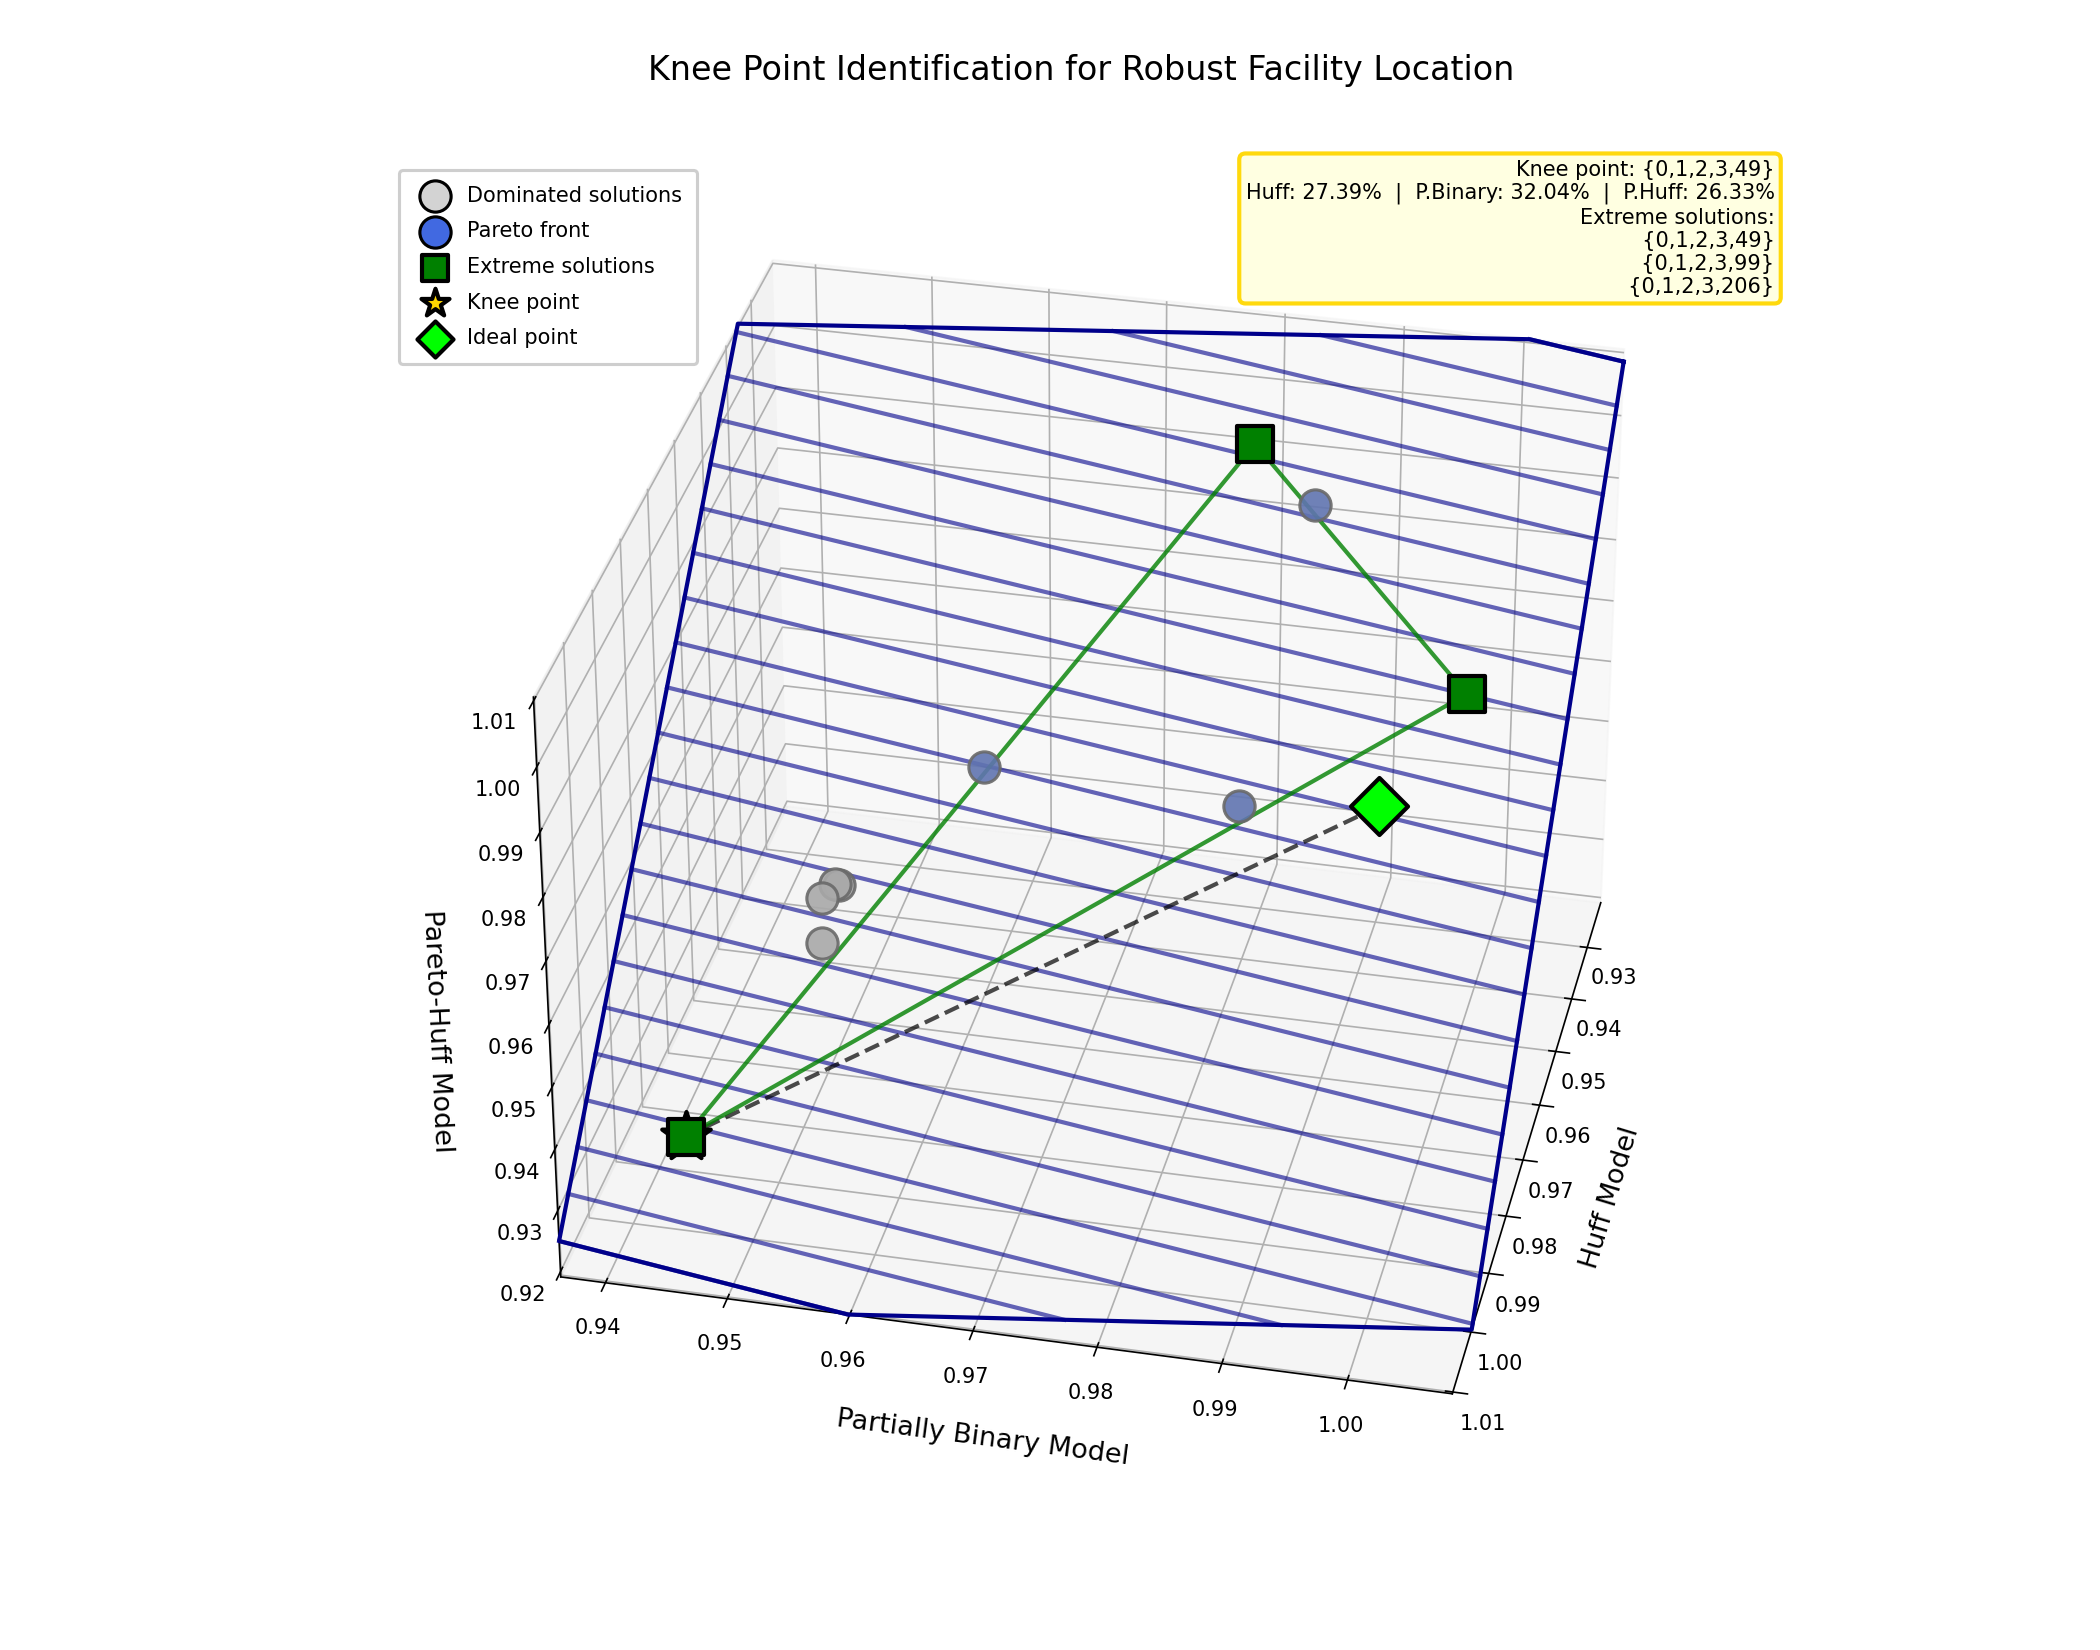
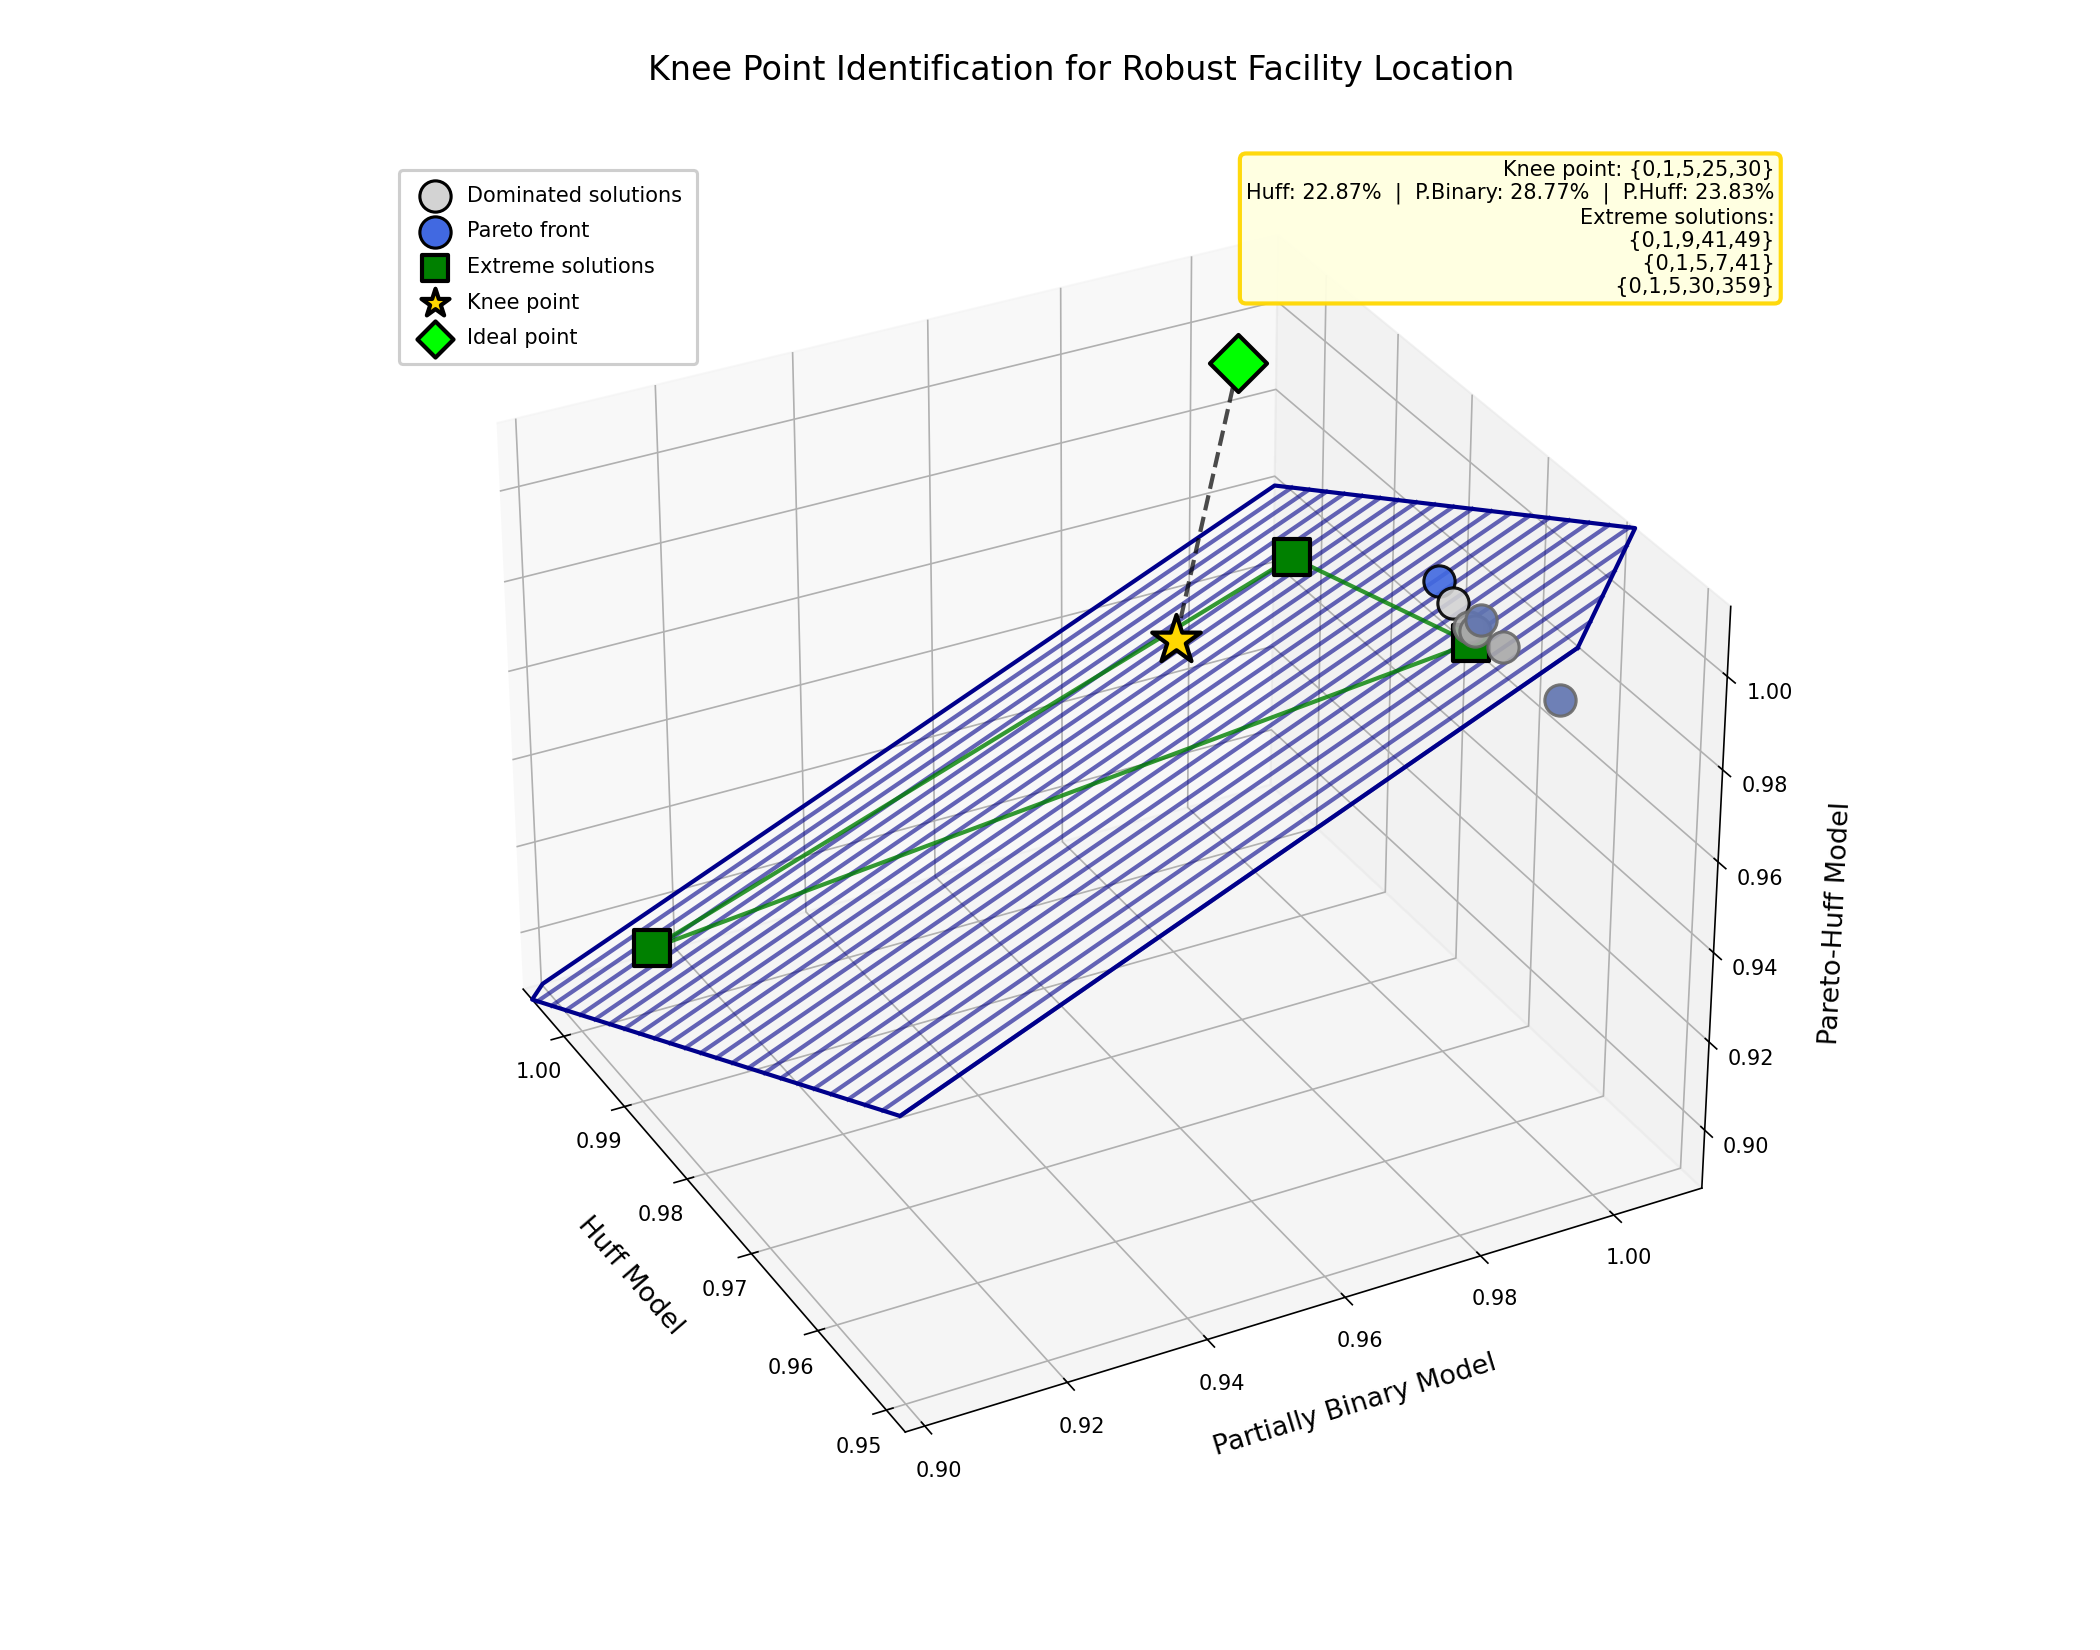
Implemented 2d visualisation.

diff --git a/analysis/visualise_2d.py b/analysis/visualise_2d.py
@@ -1,0 +1,168 @@
+#!/usr/bin/env python3
+"""Visualizer for 2D Pareto front (Huff and PartiallyBinary models)."""
+
+import sys
+import numpy as np
+import matplotlib
+matplotlib.use('Agg', force=True)
+import matplotlib.pyplot as plt
+import csv
+from dataclasses import dataclass
+from typing import List, Tuple, Optional
+
+
+@dataclass
+class Solution:
+    locations: str
+    huff_model: float
+    partially_binary: float
+
+    @property
+    def objectives(self) -> np.ndarray:
+        return np.array([self.huff_model, self.partially_binary])
+
+
+def load_solutions(filepath: str) -> List[Solution]:
+    solutions = []
+    with open(filepath, 'r') as f:
+        reader = csv.DictReader(f, delimiter='\t')
+        for row in reader:
+            solutions.append(Solution(
+                locations=row['locations'],
+                huff_model=float(row['HuffModel']),
+                partially_binary=float(row['PartiallyBinaryModel'])
+            ))
+    return solutions
+
+
+def normalize_objectives(solutions: List[Solution]) -> Tuple[np.ndarray, np.ndarray, np.ndarray]:
+    objectives = np.array([s.objectives for s in solutions])
+    mins = objectives.min(axis=0)
+    maxs = objectives.max(axis=0)
+    ranges = maxs - mins
+    ranges[ranges == 0] = 1
+    return (objectives - mins) / ranges, mins, maxs
+
+
+def find_pareto_front(objectives: np.ndarray) -> np.ndarray:
+    n = len(objectives)
+    is_dominated = np.zeros(n, dtype=bool)
+    for i in range(n):
+        for j in range(n):
+            if i != j and np.all(objectives[j] >= objectives[i]) and np.any(objectives[j] > objectives[i]):
+                is_dominated[i] = True
+                break
+    pareto = np.where(~is_dominated)[0]
+    if len(pareto) < 2:
+        sorted_by_huff = np.argsort(objectives[:, 0])[::-1]
+        pareto = sorted_by_huff[:2]
+    return pareto
+
+
+def find_knee_point(objectives: np.ndarray) -> int:
+    ideal = np.array([1.0, 1.0])
+    return np.argmin(np.linalg.norm(objectives - ideal, axis=1))
+
+
+def visualize(filepath: str, output_path: Optional[str] = None):
+    solutions = load_solutions(filepath)
+    if len(solutions) == 0:
+        print("No solutions found.")
+        return
+
+    normalized, _, _ = normalize_objectives(solutions)
+
+    pareto_indices = find_pareto_front(normalized)
+    pareto_objectives = normalized[pareto_indices]
+    dominated_indices = list(set(range(len(normalized))) - set(pareto_indices))
+
+    knee_idx = find_knee_point(pareto_objectives)
+    knee_global_idx = pareto_indices[knee_idx]
+    knee_coords = normalized[knee_global_idx]
+
+    if len(dominated_indices) > 4:
+        distances = [(idx, np.min(np.linalg.norm(pareto_objectives - normalized[idx], axis=1))) for idx in dominated_indices]
+        distances.sort(key=lambda x: x[1])
+        selected_dominated = [idx for idx, _ in distances[:4]]
+    else:
+        selected_dominated = dominated_indices[:4]
+
+    other_mask = np.ones(len(pareto_indices), dtype=bool)
+    other_mask[knee_idx] = False
+    other_pareto_indices = np.where(other_mask)[0]
+    if len(other_pareto_indices) > 4:
+        other_pareto_indices = other_pareto_indices[::2]
+
+    fig, ax = plt.subplots(figsize=(12, 10))
+    plt.subplots_adjust(top=0.92, bottom=0.08, left=0.08, right=0.98)
+
+    all_points = np.array(list(pareto_objectives) + [normalized[idx] for idx in selected_dominated] + [np.array([1.0, 1.0])])
+    data_min, data_max = all_points.min(axis=0), all_points.max(axis=0)
+
+    ax.set_xlim(data_min[0] - 0.01, data_max[0] + 0.01)
+    ax.set_ylim(data_min[1] - 0.01, data_max[1] + 0.01)
+
+    if selected_dominated:
+        for idx in selected_dominated:
+            coord = normalized[idx]
+            ax.scatter(coord[0], coord[1], c='lightgray', s=225,
+                       alpha=0.9, edgecolors='black', linewidth=1.5)
+        ax.scatter([], [], c='lightgray', s=225, edgecolors='black',
+                  linewidth=1.5, label='Dominated solutions')
+
+    if len(other_pareto_indices) > 0:
+        for idx in other_pareto_indices:
+            coord = pareto_objectives[idx]
+            ax.scatter(coord[0], coord[1], c='royalblue', s=225,
+                       alpha=0.9, edgecolors='black', linewidth=1.5)
+        ax.scatter([], [], c='royalblue', s=225, edgecolors='black',
+                  linewidth=1.5, label='Pareto front')
+
+    if len(pareto_objectives) > 0:
+        sorted_pareto = pareto_objectives[np.argsort(pareto_objectives[:, 0])]
+        ax.plot(sorted_pareto[:, 0], sorted_pareto[:, 1], 'royalblue',
+                linewidth=2, alpha=0.8)
+
+        ax.plot([knee_coords[0], 1.0], [knee_coords[1], 1.0], 'k--',
+                linewidth=2, alpha=0.7)
+
+    ax.scatter(knee_coords[0], knee_coords[1], c='gold', s=600,
+               marker='*', edgecolors='black', linewidth=2)
+
+    ax.scatter(1.0, 1.0, c='lime', s=375, marker='D',
+               edgecolors='black', linewidth=2)
+
+    ax.scatter([], [], c='gold', s=200, marker='*',
+              edgecolors='black', linewidth=2, label='Knee point')
+    ax.scatter([], [], c='lime', s=150, marker='D',
+              edgecolors='black', linewidth=2, label='Ideal point')
+
+    ax.set_xlabel('Huff Model', fontsize=13, labelpad=12)
+    ax.set_ylabel('Partially Binary Model', fontsize=13, labelpad=12)
+    ax.set_title('2D Pareto Front: Huff vs PartiallyBinary', fontsize=16, pad=25)
+
+    legend = ax.legend(loc='upper left', fontsize=10, framealpha=0.95,
+                       labelspacing=0.75, handletextpad=0.5, borderpad=0.75)
+    legend.get_frame().set_linewidth(1.5)
+
+    knee_sol = solutions[knee_global_idx]
+    info_text = (f'Knee point: {{{knee_sol.locations}}}\n'
+                 f'Huff: {knee_sol.huff_model:.2f}%  |  P.Binary: {knee_sol.partially_binary:.2f}%')
+
+    ax.text(1.0, 0.98, info_text, transform=ax.transAxes, fontsize=10,
+            verticalalignment='top', horizontalalignment='right',
+            bbox=dict(boxstyle='round', facecolor='lightyellow', alpha=0.95,
+                      edgecolor='gold', linewidth=2))
+
+    if output_path:
+        plt.savefig(output_path, dpi=150, facecolor='white')
+        print(f"Figure saved to {output_path}")
+
+    plt.close()
+
+
+if __name__ == '__main__':
+    filepath = sys.argv[1] if len(sys.argv) > 1 else '../checked_solutions.tsv'
+    output_path = sys.argv[2] if len(sys.argv) > 2 else 'analysis/pareto_2d.png'
+    print(f"Loading solutions from {filepath}...")
+    visualize(filepath, output_path)

diff --git a/config/config.go b/config/config.go
@@ -8,25 +8,32 @@ import (
 )
 
 func init() {
+	// Load .env file if it exists (silently ignore if not found)
 	_ = godotenv.Load()
 }
 
+// Config holds all configurable parameters for the FLARC/PL facility location solver.
 type Config struct {
+	// Problem parameters
 	ProblemFile   string
 	DemandsFile   string
 	MaxFacilities int
 
-	PopulationSize  int
-	Iterations      int
-	Epsilon         float64
-	Alpha           float64
-	RankFile        string
-	PerformTraining bool
+	// FLARC/PL parameters
+	PopulationSize  int     // Maximum population size (n_P)
+	Iterations      int     // Number of iterations
+	Epsilon         float64 // Mutation probability
+	Alpha           float64 // Learning rate for rank updates
+	RankFile        string  // File to save/load rank scores
+	PerformTraining bool    // If true, run optimization; else use stored ranks
 
-	CheckedSolutionsFile string
-	JSONMode             bool
+	// Output / reporting
+	CheckedSolutionsFile string // TSV file with all evaluated solutions and objectives
+	JSONMode             bool   // If true, output results as JSON to stdout
+	TwoDMode             bool   // If true, use only Huff and PartiallyBinary models (2D)
 }
 
+// Load reads configuration from environment variables, falling back to defaults.
 func Load() *Config {
 	return &Config{
 		ProblemFile:          envString("PROBLEM_FILE", "CFLP.dat"),
@@ -40,6 +47,7 @@ func Load() *Config {
 		PerformTraining:      envBool("TRAINING_MODE", true),
 		CheckedSolutionsFile: envString("CHECKED_SOLUTIONS_FILE", "checked_solutions.tsv"),
 		JSONMode:             envBool("JSON_MODE", false),
+		TwoDMode:             envBool("TWO_D_MODE", false),
 	}
 }
 

diff --git a/main.go b/main.go
@@ -20,7 +20,13 @@ type JSONResult struct {
 	ParetoFront   []*solution.Solution `json:"pareto_front"`
 }
 
-func AllBehaviorModels() []problem.CustomerBehaviorModel {
+func AllBehaviorModels(twoDMode bool) []problem.CustomerBehaviorModel {
+	if twoDMode {
+		return []problem.CustomerBehaviorModel{
+			problem.HuffModel{},
+			problem.PartiallyBinaryModel{},
+		}
+	}
 	return []problem.CustomerBehaviorModel{
 		problem.HuffModel{},
 		problem.PartiallyBinaryModel{},
@@ -40,7 +46,7 @@ func main() {
 
 	agent := ranking.NewAgent(cfg, prob, behaviorModel)
 
-	behaviors := AllBehaviorModels()
+	behaviors := AllBehaviorModels(cfg.TwoDMode)
 	tableLogger, err := report.NewSolutionsTableLogger(cfg.CheckedSolutionsFile, behaviors)
 	if err != nil {
 		log.Fatalf("Failed to create checked-solutions table file: %v", err)
@@ -82,10 +88,16 @@ func main() {
 			for _, loc := range robustSolution.Locations {
 				fmt.Printf("%d ", loc)
 			}
-			fmt.Printf("\nObjective values (Huff, PartiallyBinary, ParetoHuff): %.6f%%, %.6f%%, %.6f%%\n",
-				robustSolution.Objectives[0],
-				robustSolution.Objectives[1],
-				robustSolution.Objectives[2])
+			if cfg.TwoDMode {
+				fmt.Printf("\nObjective values (Huff, PartiallyBinary): %.6f%%, %.6f%%\n",
+					robustSolution.Objectives[0],
+					robustSolution.Objectives[1])
+			} else {
+				fmt.Printf("\nObjective values (Huff, PartiallyBinary, ParetoHuff): %.6f%%, %.6f%%, %.6f%%\n",
+					robustSolution.Objectives[0],
+					robustSolution.Objectives[1],
+					robustSolution.Objectives[2])
+			}
 		}
 	}
 }

diff --git a/analysis/visualise_pareto.py b/analysis/visualise_pareto.py
@@ -190,7 +190,9 @@ def visualize(filepath: str, output_path: Optional[str] = None):
     other_mask = np.ones(len(pareto_indices), dtype=bool)
     other_mask[knee_idx] = False
     other_mask[extreme_indices] = False
-    other_pareto_indices = np.where(other_mask)[0][::2]
+    other_pareto_indices = np.where(other_mask)[0]
+    if len(other_pareto_indices) > 4:
+        other_pareto_indices = other_pareto_indices[::2]
     
     fig = plt.figure(figsize=(14, 11))
     ax = fig.add_subplot(111, projection='3d')
@@ -209,9 +211,9 @@ def visualize(filepath: str, output_path: Optional[str] = None):
     padding = (data_max - data_min) * 0.15
     min_coords, max_coords = data_min - padding, data_max + padding
     
-    ax.set_xlim(0, max_coords[0])
-    ax.set_ylim(0, max_coords[1])
-    ax.set_zlim(0, max_coords[2])
+    ax.set_xlim(max_coords[0], min_coords[0])
+    ax.set_ylim(min_coords[1], max_coords[1])
+    ax.set_zlim(min_coords[2], max_coords[2])
     
     hyperplane_vertices = create_hyperplane_vertices(extreme_coords, min_coords, max_coords)
     if len(hyperplane_vertices) >= 3:

diff --git a/analysis/analyze_metrics.py b/analysis/analyze_metrics.py
@@ -15,7 +15,7 @@ from itertools import combinations
 BEST_KNOWN = {
     3: [21.800306, 29.292358, 23.080654],
     5: [27.748007, 35.009718, 29.088894],
-    10: [35.011573, 40.522524, 36.247860],
+    10: [35.011573, 40.522524, 36.247860],d
 }
 
 
@@ -195,14 +195,14 @@ def ideal_point_from_runs(runs):
 
 def main():
     if len(sys.argv) < 2:
-        input_file = "raw_results.json"
+        input_file = "analysis/raw_results.json"
     else:
         input_file = sys.argv[1]
 
     if len(sys.argv) >= 3:
         output_file = sys.argv[2]
     else:
-        output_file = "robustness_metrics.csv"
+        output_file = "analysis/robustness_metrics.csv"
 
     with open(input_file, "r") as f:
         all_results = json.load(f)

diff --git a/analysis/run_experiments.py b/analysis/run_experiments.py
@@ -32,7 +32,6 @@ def run_one(iterations, facilities, run_index):
             text=True,
             env=env,
             timeout=1800,
-            cwd="..",
         )
         if proc.returncode != 0:
             return {
@@ -104,7 +103,7 @@ def main():
                 })
                 completed += 1
 
-    output_file = "raw_results.json"
+    output_file = "analysis/raw_results.json"
     with open(output_file, "w") as f:
         json.dump(results, f, indent=2)
 
